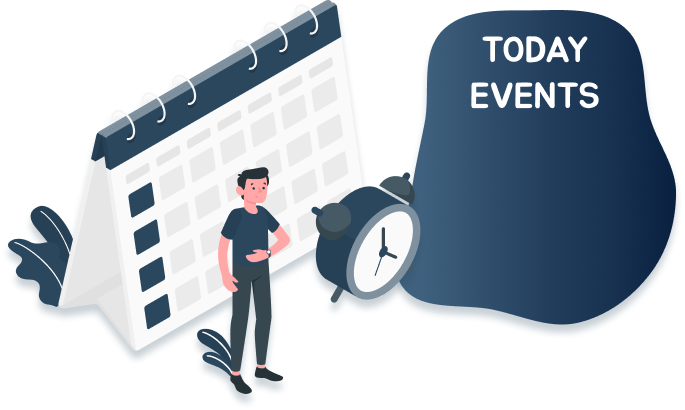
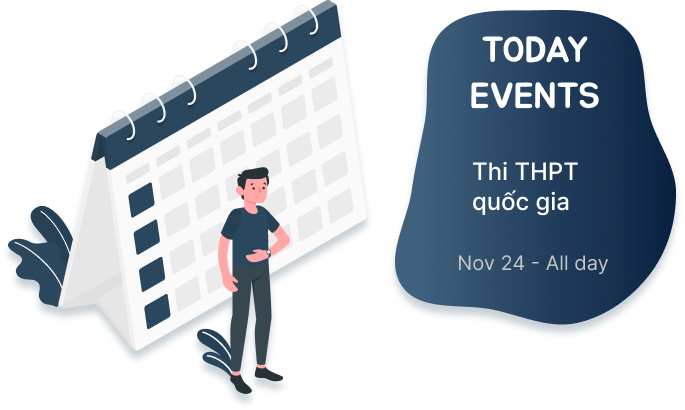
Draw image Today Event

diff --git a/src/screens/FamilyScreen/FamilyScreen.tsx b/src/screens/FamilyScreen/FamilyScreen.tsx
@@ -509,6 +509,28 @@ const ViewFamilyScreen = ({navigation, route}: ViewFamilyScreenProps) => {
           </TouchableOpacity>
         </View>
       </View>
+      <Image
+        source={require('../../assets/images/family-today-event.png')}
+        resizeMode="cover"
+        style={{
+          width: 334,
+          height: 197,
+          alignSelf: 'center',
+          marginTop: 80,
+        }}
+      />
+      <Image
+        source={require('../../assets/images/clock.png')}
+        resizeMode="cover"
+        style={{
+          width: 62.16,
+          height: 69.88,
+          alignSelf: 'center',
+          marginTop: 80,
+          bottom: 200,
+          left: 15,
+        }}
+      />
     </View>
   );
 };
